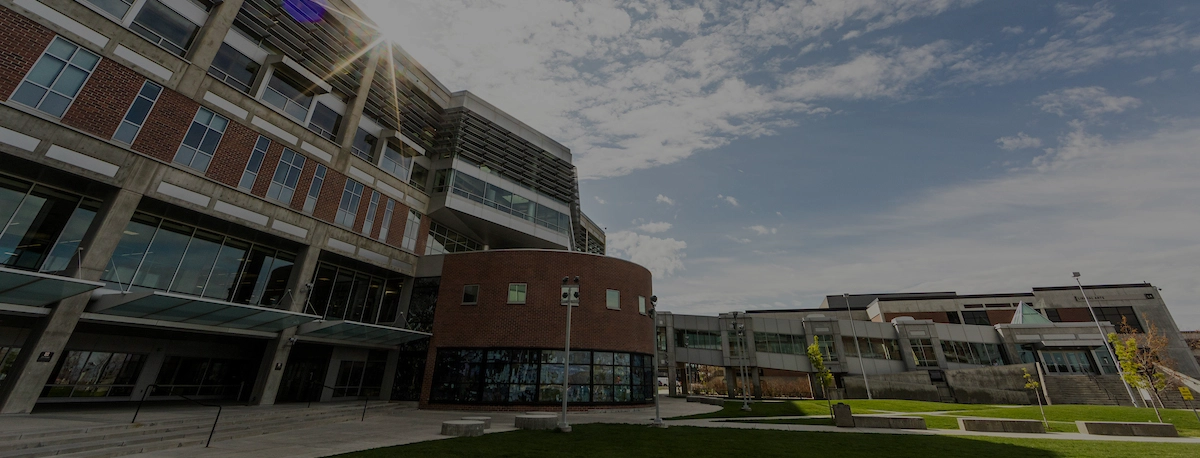
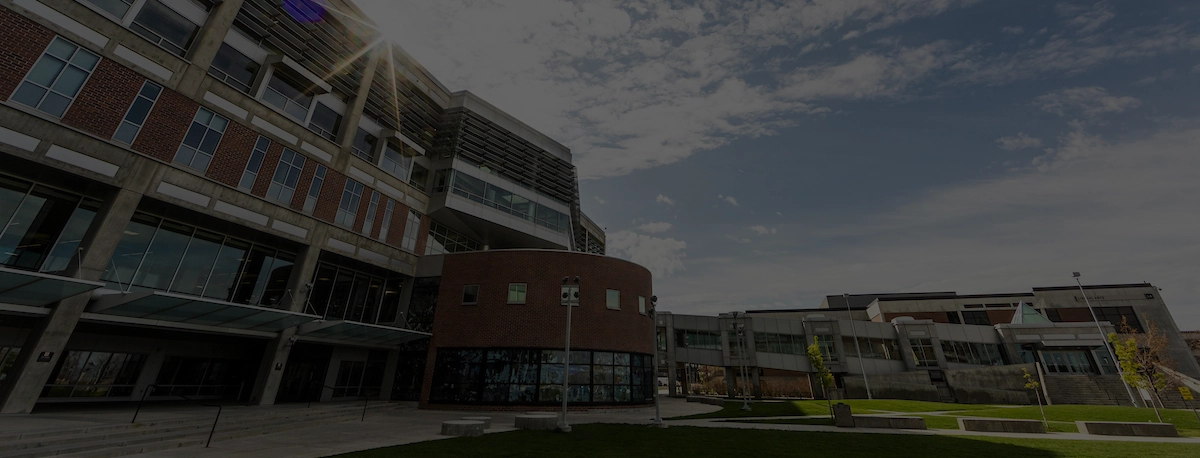
Changed bookstore.html hero image.

diff --git a/bookstore.html b/bookstore.html
@@ -81,7 +81,7 @@
                 <div class="hero">
                     <h1>Eliminating Painpoints: A redesign for the UVU Bookstore Site </h1>
                     <h3>A Case Study</h3>
-                    <img src="images/utsps_hero.webp" width="640" height="213" alt="">
+                    <img src="images/bookstoreHero.webp" width="640" height="213" alt="">
                 </div>
                 <h2 class="h2Top">Project Overview</h2>
                 <div class="row">
